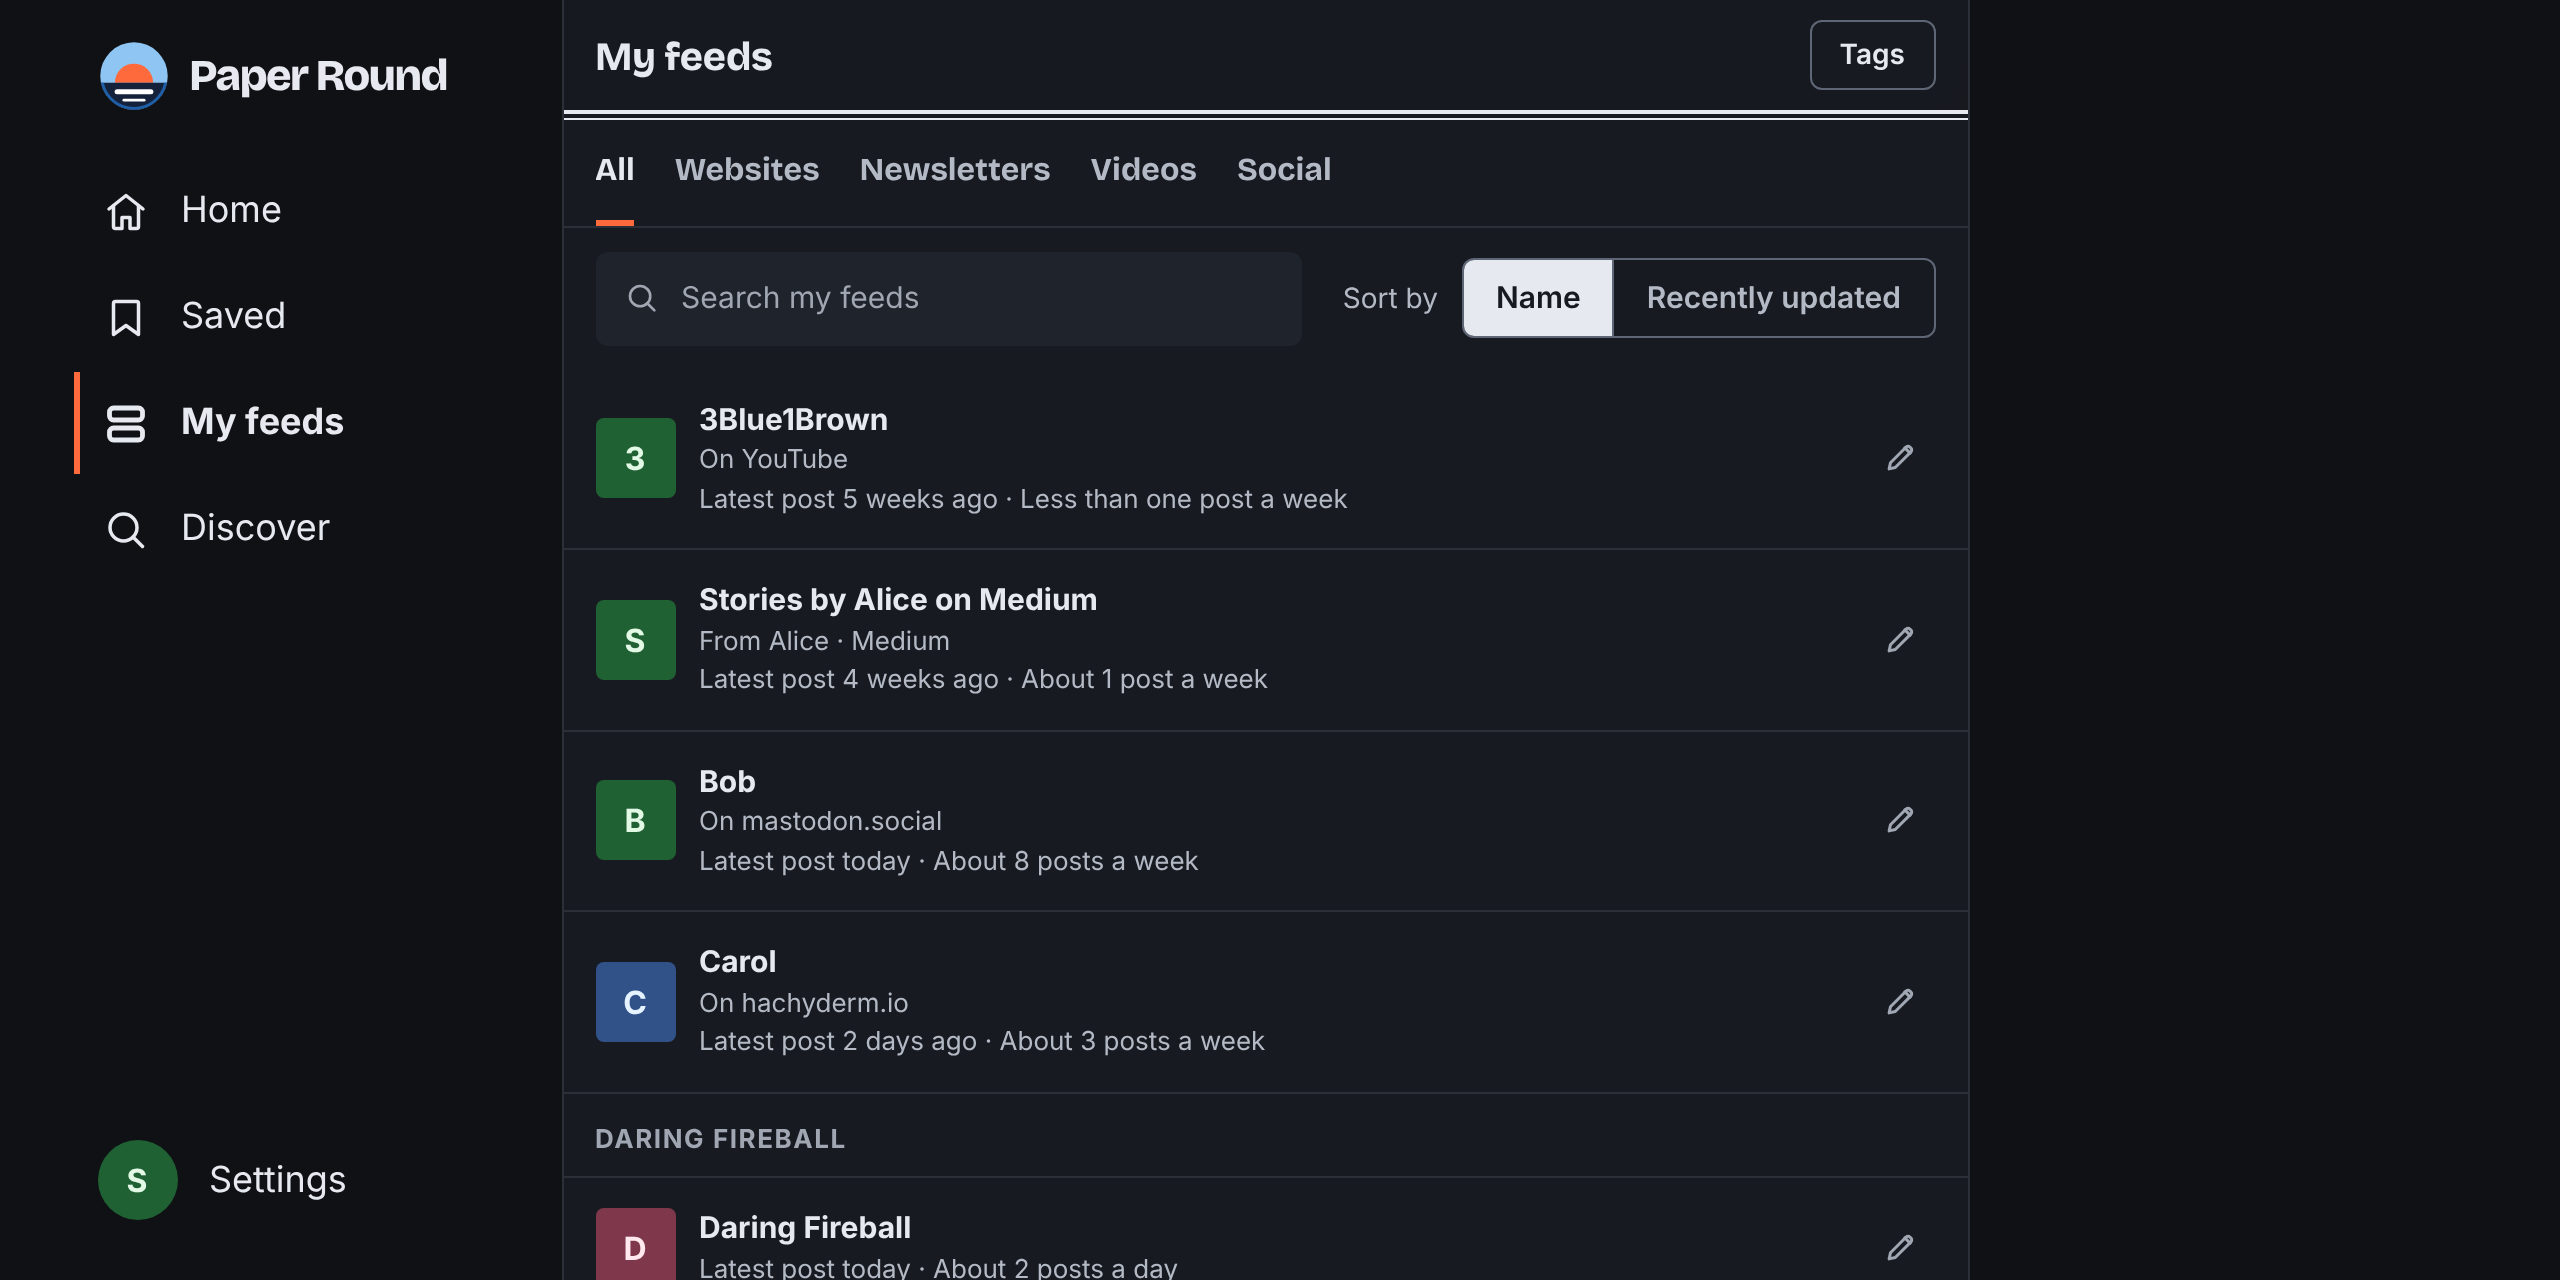
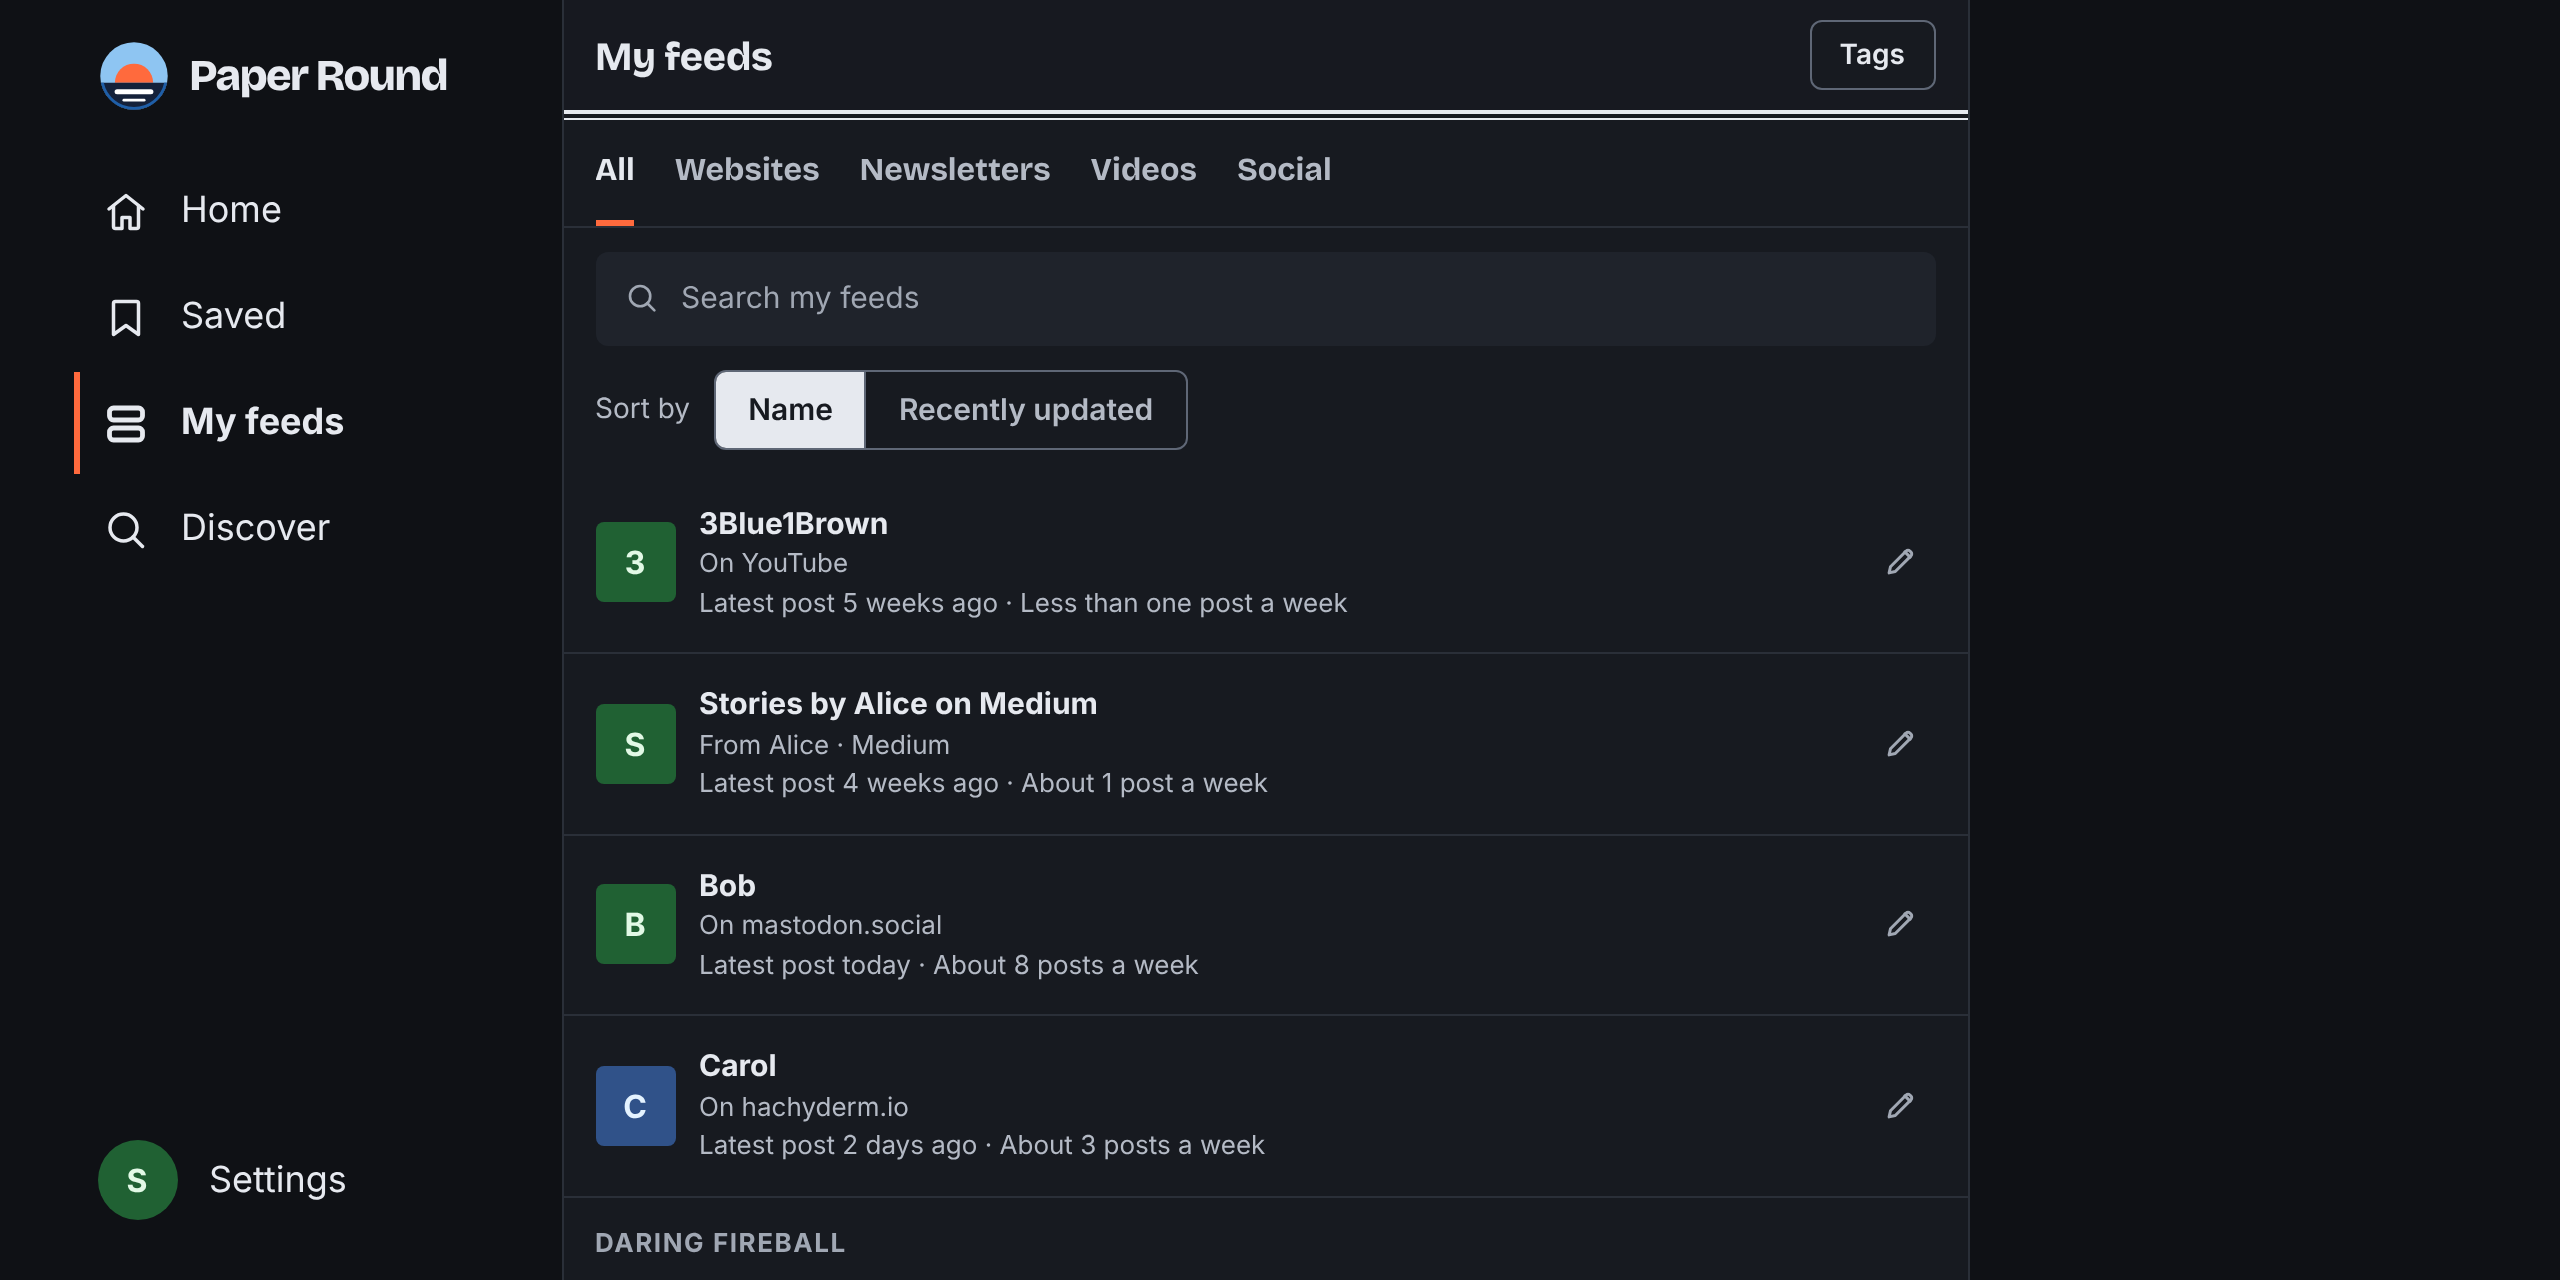
Revert "My feeds: search and sort on one line under the kinds' tabs"
This reverts commit 439d625e37b8af4195a04c38f6f9f2a1a504a50d.

diff --git a/internal/ui/templates/feeds.html b/internal/ui/templates/feeds.html
@@ -36,26 +36,23 @@
       <div class="flash">{{.}}</div>
       {{end}}
 
-      {{/* The list's tools, after the kind that chooses what it lists: the
-           search that narrows it, then the sort that orders it, on one line
-           where they fit (feeds.css). */}}
+      {{if .Total}}
       {{if .Count}}
-      <div class="feeds-tools">
-        <form class="page-search" role="search" method="get" action="/feeds" data-feeds-filter>
-          {{template "search-box" .Box}}
-          {{with .Kind}}<input type="hidden" name="kind" value="{{.}}" />{{end}}
-          {{with .Sort}}<input type="hidden" name="sort" value="{{.}}" />{{end}}
-        </form>
-        {{if gt .Count 1}}
-        <nav class="feeds-sort" aria-labelledby="feeds-sort-label">
-          <span id="feeds-sort-label">Sort by</span>
-          <ul class="segmented" role="list">
-            <li><a href="{{.ByName}}"{{if not .Sort}} aria-current="page"{{end}} data-sort-link>Name</a></li>
-            <li><a href="{{.ByUpdated}}"{{if .Sort}} aria-current="page"{{end}} data-sort-link>Recently updated</a></li>
-          </ul>
-        </nav>
-        {{end}}
-      </div>
+      <form class="page-search" role="search" method="get" action="/feeds" data-feeds-filter>
+        {{template "search-box" .Box}}
+        {{with .Kind}}<input type="hidden" name="kind" value="{{.}}" />{{end}}
+        {{with .Sort}}<input type="hidden" name="sort" value="{{.}}" />{{end}}
+      </form>
+      {{end}}
+      {{if gt .Count 1}}
+      <nav class="feeds-sort" aria-labelledby="feeds-sort-label">
+        <span id="feeds-sort-label">Sort by</span>
+        <ul class="segmented" role="list">
+          <li><a href="{{.ByName}}"{{if not .Sort}} aria-current="page"{{end}} data-sort-link>Name</a></li>
+          <li><a href="{{.ByUpdated}}"{{if .Sort}} aria-current="page"{{end}} data-sort-link>Recently updated</a></li>
+        </ul>
+      </nav>
+      {{end}}
       {{end}}
 
       {{range .Sites}}

diff --git a/web/app/styles/partials/settings.css b/web/app/styles/partials/settings.css
@@ -1,6 +1,5 @@
 /* Settings and the account pages' rows, the Reading form, tag checkboxes,
-   an import's progress and rows, the segmented control, and My feeds'
-   search and sort. */
+   an import's progress and rows, and the segmented control. */
 @layer components {
   /* A segmented control: two or three choices side by side in one
      outlined box, as a button group, a rule between them and the current
@@ -58,34 +57,6 @@
   .segmented a:focus-visible {
     outline: 2px solid var(--accent);
     outline-offset: -4px;
-  }
-
-  /* My feeds' tools: the search, then the sort at its end on one line,
-     as GitLab's lists put them, where the column leaves the search at
-     least 18rem; narrower, the sort wraps under the search. Here rather
-     than in feeds.css, which the reading pages load for site pages' feed
-     rows, since only My feeds has them. */
-  .feeds-tools {
-    display: flex;
-    flex-wrap: wrap;
-    align-items: center;
-    gap: 0.75rem 1.25rem;
-    padding: 0.75rem 1rem;
-  }
-
-  .feeds-tools .page-search {
-    flex: 1 1 18rem;
-    padding: 0;
-  }
-
-  /* The sort: its label, then the choices as a segmented control. */
-  .feeds-sort {
-    display: flex;
-    flex-wrap: wrap;
-    align-items: center;
-    gap: 0.5rem 0.75rem;
-    color: var(--text-2);
-    font-size: 0.875rem;
   }
 
   /* Settings: rows of a label, a value and, on links, a chevron. */

diff --git a/web/app/styles/partials/feeds.css b/web/app/styles/partials/feeds.css
@@ -176,6 +176,18 @@
     display: none;
   }
 
+  /* My feeds' sort under its search: its label, then the choices as a
+     segmented control (settings.css). */
+  .feeds-sort {
+    display: flex;
+    flex-wrap: wrap;
+    align-items: center;
+    gap: 0.5rem 0.75rem;
+    padding: 0 1rem 0.75rem;
+    color: var(--text-2);
+    font-size: 0.875rem;
+  }
+
   /* An icon-only control at the end of a row, like My feeds' Edit. */
   .row-icon-btn {
     display: inline-flex;
